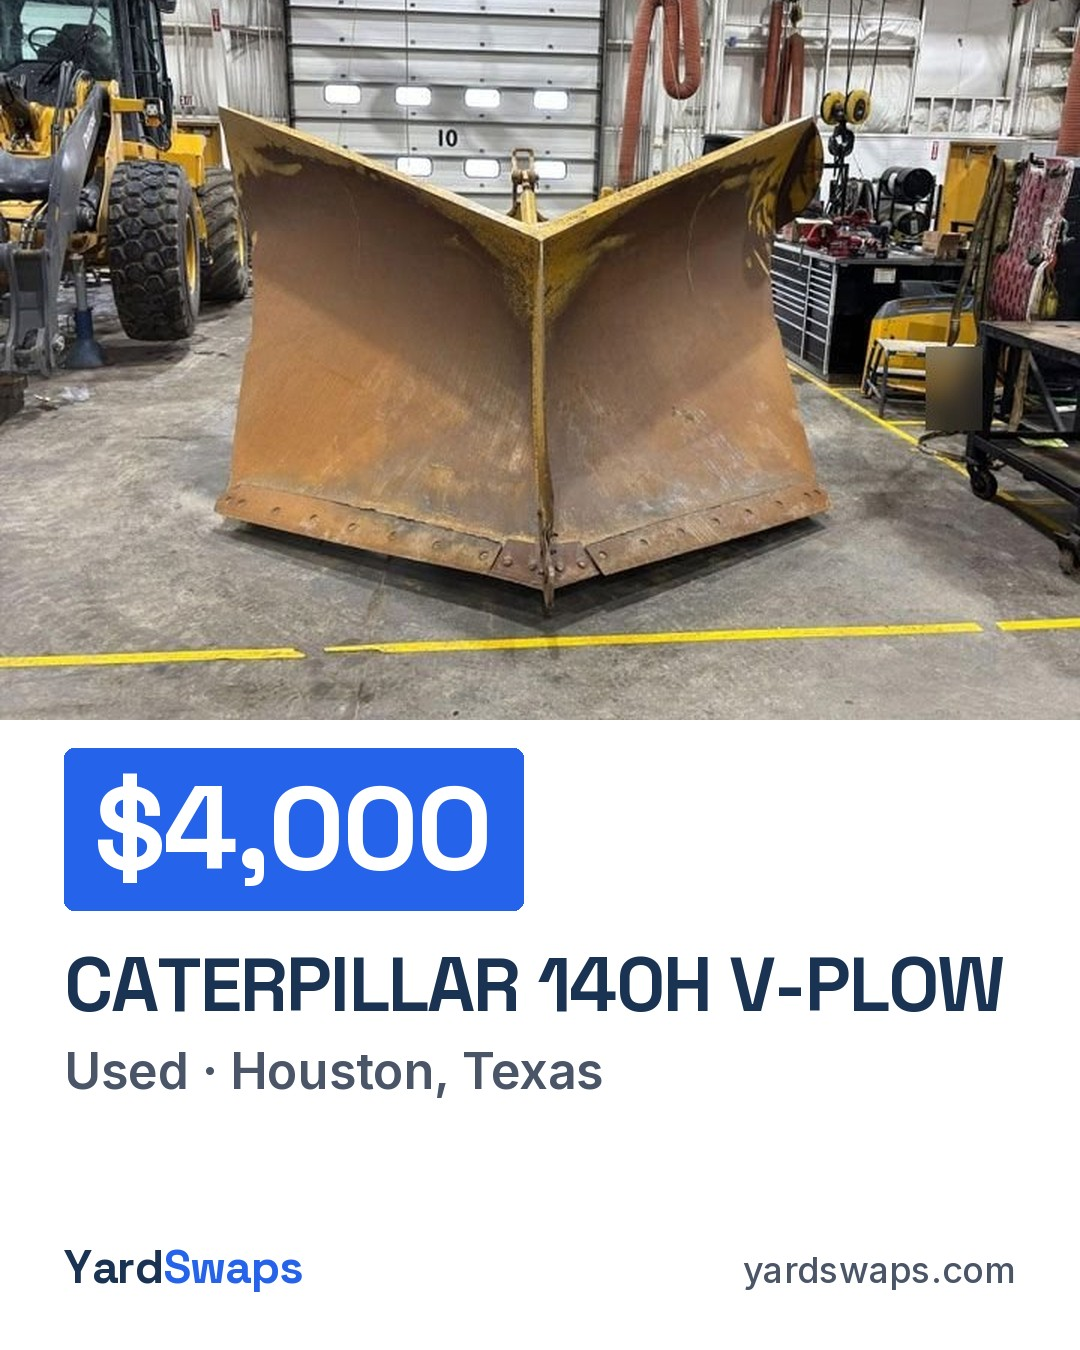
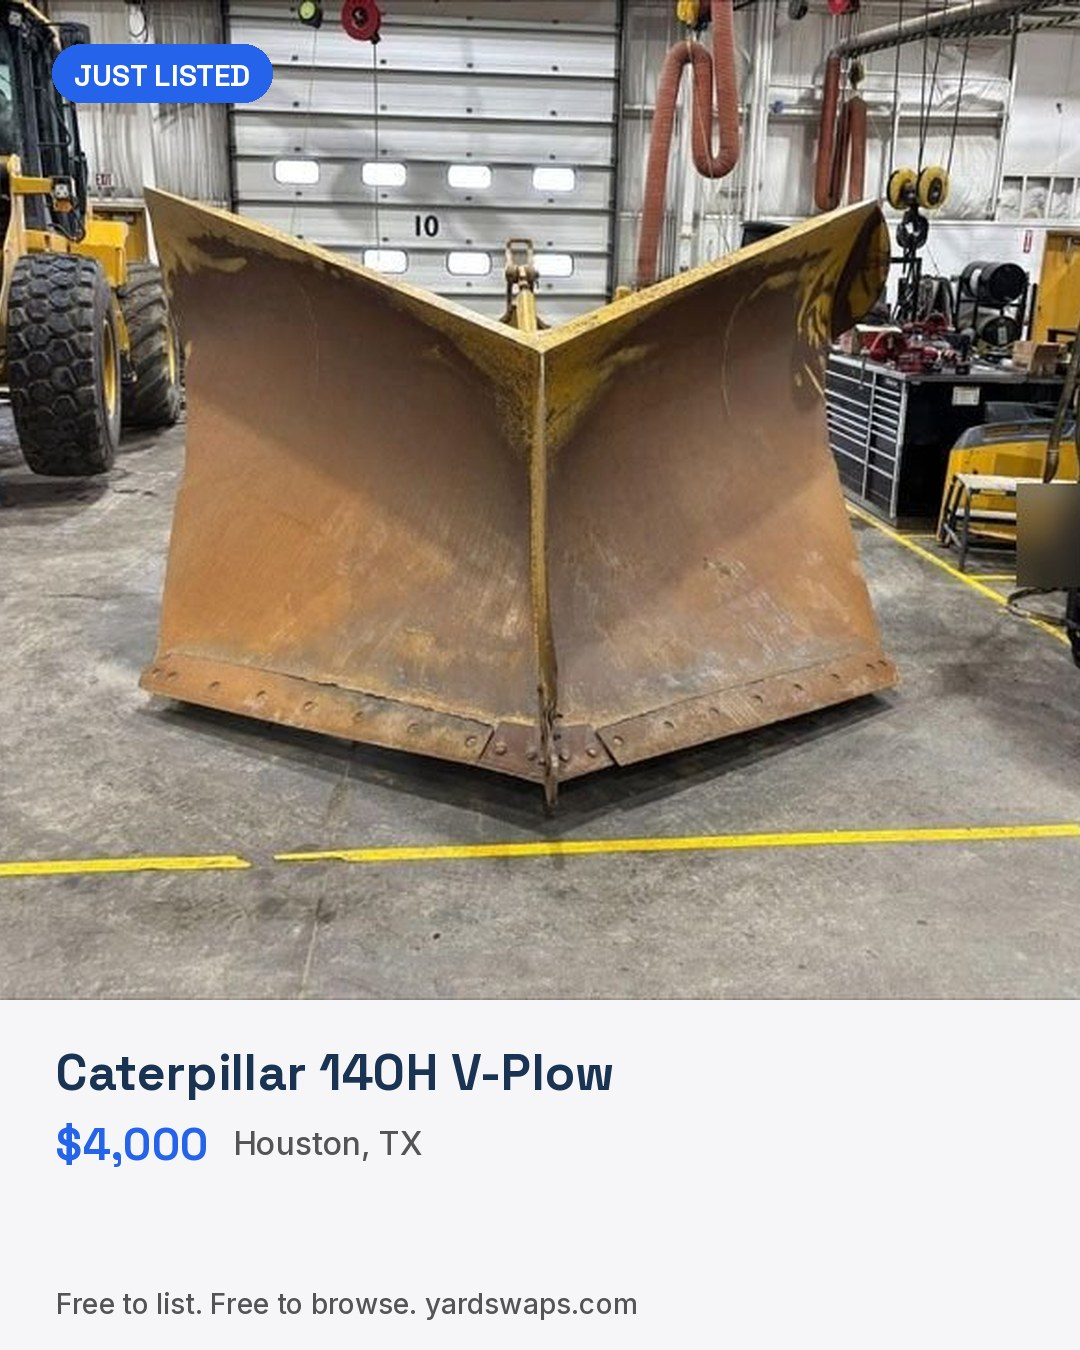
Still images: seller stills and the Just listed card in the earlier card look
Alan, 2026-11-26, of an earlier Just listed card: "These images are super nice", then next to the k2 seller stills: "This tractor looks different?".

- Seven seller stills rebuilt in that card's layout (brand/posts/make_seller_cards.py): one real photo on top with the blue label, slate headline, one blue line, footer. reels/images.json points the still of the day at them. The k2 versions stay in brand/posts/seller-feed/.
- listings/just_listed.py render_card is back to the card it drew before the k2 change, and the seven approved cards waiting in the queue are re-made from their saved, privacy-cleaned photos.

Claude-Session: https://claude.ai/code/session_01LSYGzeUgq9fnmqx8BJzKeC

diff --git a/brand/posts/make_seller_cards.py b/brand/posts/make_seller_cards.py
@@ -1,0 +1,94 @@
+#!/usr/bin/env python3
+"""Seller still images in the Just listed card look (Alan, 2026-11-26, of the earlier Just listed card:
+"These images are super nice"; then, next to the seven k2 seller stills: "This tractor looks different?").
+
+    python3 brand/posts/seller_photos.py <words from listing Reel slugs>   first: fetch the real photos
+    python3 brand/posts/make_seller_cards.py [slug ...]
+
+The card is the one listings/just_listed.py drew until 2026-11-26: the real photo across the top with only
+the blue label on it, then on the light panel a two-line headline in slate, one line in blue with the facts
+beside it in grey, and the footer line. Here the label, headline and blue line carry the seller message
+(free to list, no selling fee) instead of a price. One photo per card, the whole item in frame, no faces,
+plates or phone numbers; the footer names the item shown.
+
+Out: brand/posts/seller-cards/seller-card-<slug>.jpg (1080x1350).
+"""
+import sys, os, glob
+from PIL import Image, ImageDraw, ImageFont
+HERE = os.path.dirname(os.path.abspath(__file__))
+ROOT = os.path.dirname(os.path.dirname(HERE))
+FONTS = os.path.join(ROOT, "listings", "fonts")
+SRC = os.environ.get("SELLER_SRC", os.path.join(HERE, "seller-src"))
+OUT = os.path.join(HERE, "seller-cards")
+BG, SLATE, BLUE, GRAY = (246, 246, 248), (26, 51, 83), (37, 99, 235), (84, 84, 86)
+W, H, PH, PAD = 1080, 1350, 1000, 56
+LABEL = "LIST IT FREE ON YARDSWAPS"
+BLUE_LINE, FACTS = "Free to list", "No selling fee · Local pickup"
+
+
+def font(name, size, weight):
+    f = ImageFont.truetype(os.path.join(FONTS, name), size)
+    try:
+        f.set_variation_by_name(weight)
+    except Exception:
+        pass
+    return f
+
+
+def photo(frag, i=0):
+    f = glob.glob(os.path.join(SRC, f"*{frag}-{i}.jpg"))
+    assert len(f) == 1, (frag, i, f)
+    return Image.open(f[0]).convert("RGB")
+
+
+def card(ph, line1, line2, shown, anchor=(0.5, 0.5)):
+    """anchor: where the cover crop sits on the photo, (0..1 across, 0..1 down)."""
+    img = Image.new("RGB", (W, H), BG)
+    s = max(W / ph.width, PH / ph.height)
+    ph = ph.resize((int(ph.width * s + 0.5), int(ph.height * s + 0.5)), Image.LANCZOS)
+    left, top = int((ph.width - W) * anchor[0]), int((ph.height - PH) * anchor[1])
+    img.paste(ph.crop((left, top, left + W, top + PH)), (0, 0))
+    d = ImageDraw.Draw(img)
+    lf = font("SpaceGrotesk.ttf", 30, b"Bold")
+    tw = d.textlength(LABEL, font=lf)
+    d.rounded_rectangle((PAD - 4, 44, PAD + tw + 40, 44 + 58), radius=29, fill=BLUE)
+    d.text((PAD + 18, 44 + 12), LABEL, font=lf, fill=(255, 255, 255))
+    tf = font("SpaceGrotesk.ttf", 50, b"Bold")
+    y = PH + 40
+    for line in (line1, line2):
+        assert d.textlength(line, font=tf) <= W - 2 * PAD, line
+        d.text((PAD, y), line, font=tf, fill=SLATE)
+        y += 62
+    y += 14
+    pf = font("SpaceGrotesk.ttf", 44, b"Bold")
+    d.text((PAD, y), BLUE_LINE, font=pf, fill=BLUE)
+    rf = font("Inter.ttf", 32, b"Medium")
+    d.text((PAD + d.textlength(BLUE_LINE, font=pf) + 24, y + 8), FACTS, font=rf, fill=GRAY)
+    ff = font("Inter.ttf", 28, b"Medium")
+    foot = f"Shown: {shown}. yardswaps.com"
+    assert d.textlength(foot, font=ff) <= W - 2 * PAD, foot
+    d.text((PAD, H - 64), foot, font=ff, fill=GRAY)
+    return img
+
+
+# slug, (listing fragment, photo index), headline line 1, line 2, item shown, crop anchor
+L2 = "Snap a photo. AI writes the listing."
+CARDS = [
+    ("coffee-gear", ("q3nph", 0), "Coffee gear sitting idle?", L2, "La Spaziale S11 espresso machine", (0.5, 0.5)),
+    ("yard-gear", ("behok", 0), "Upgraded your mower?", L2, "Big Dog walk-behind mower", (0.5, 0.7)),
+    ("shop-tools", ("k5oda", 0), "Tools you don\u2019t use?", L2, "Mitutoyo micrometer set", (0.5, 0.5)),
+    ("hvac-units", ("uemvl", 0), "HVAC left from a job?", L2, "Goodman condenser", (0.5, 0.22)),
+    ("spare-engine", ("dsydq", 0), "Spare engine in the shop?", L2, "Komatsu HD785-7 engine", (0.5, 0.5)),
+    ("walk-in-cooler", ("q3khm", 0), "Cooler sitting empty?", L2, "Floral walk-in display cooler", (0.5, 0.5)),
+    ("kitchen-ovens", ("s8tqf", 0), "Replaced your oven?", L2, "TurboChef Eco oven", (0.5, 0.3)),
+]
+
+if __name__ == "__main__":
+    names = sys.argv[1:]
+    os.makedirs(OUT, exist_ok=True)
+    for slug, (frag, i), l1, l2, shown, anchor in CARDS:
+        if names and slug not in names:
+            continue
+        out = os.path.join(OUT, f"seller-card-{slug}.jpg")
+        card(photo(frag, i), l1, l2, shown, anchor).save(out, "JPEG", quality=88, optimize=True)
+        print(out)

diff --git a/listings/just_listed.py b/listings/just_listed.py
@@ -401,16 +401,49 @@ def facts_lines(l):
 
 
 def render_card(photo_bgr, l, out_path):
-    """The feed card in the post kit look (brand/posts/kit.py, k2): the real photo on top with nothing over it,
-    the price in the blue tag, the short title and the facts on white."""
+    """The feed card as it was before 2026-11-26 (Alan that day, of one of these: "These images are super
+    nice"; the k2 version with the price in the tag and the title in capitals ran for a few hours and was put
+    back): the real photo across the top with only the label on it, then on the light panel the seller's
+    title in slate, the price in blue with the facts beside it, and the footer line."""
     import cv2
-    from PIL import Image
-    sys.path.insert(0, os.path.join(ROOT, "brand", "posts"))
-    import kit
-    photo = Image.fromarray(cv2.cvtColor(photo_bgr, cv2.COLOR_BGR2RGB))
-    lines = facts_lines(l) + ["", ""]
-    img = kit.listing_post(photo, spec_title(l), price_text(l.get("price")), lines[0], facts2=lines[1])
-    img.save(out_path, "JPEG", quality=90, optimize=True)
+    from PIL import Image, ImageDraw
+    W, H, PH = 1080, 1350, 1000
+    img = Image.new("RGB", (W, H), BG)
+    rgb = cv2.cvtColor(photo_bgr, cv2.COLOR_BGR2RGB)
+    ph = Image.fromarray(rgb)
+    # Cover-crop the photo into the top 1080x1000.
+    s = max(W / ph.width, PH / ph.height)
+    ph = ph.resize((int(ph.width * s + 0.5), int(ph.height * s + 0.5)), Image.LANCZOS)
+    left, top = (ph.width - W) // 2, (ph.height - PH) // 2
+    img.paste(ph.crop((left, top, left + W, top + PH)), (0, 0))
+    d = ImageDraw.Draw(img)
+    pad = 56
+    label = "JUST LISTED" if is_new(l) else "FOR SALE ON YARDSWAPS"
+    lf = font("SpaceGrotesk.ttf", 30, b"Bold")
+    # Label pill on the photo, top-left.
+    tw = d.textlength(label, font=lf)
+    d.rounded_rectangle((pad - 4, 44, pad + tw + 40, 44 + 58), radius=29, fill=BLUE)
+    d.text((pad + 18, 44 + 12), label, font=lf, fill=(255, 255, 255))
+    tf = font("SpaceGrotesk.ttf", 50, b"Bold")
+    lines = wrap(d, nice_title(l["title"]), tf, W - 2 * pad, 2)
+    y = PH + 40
+    for line in lines:
+        d.text((pad, y), line, font=tf, fill=SLATE)
+        y += 62
+    y += 14
+    pf = font("SpaceGrotesk.ttf", 44, b"Bold")
+    pt = price_text(l.get("price"))
+    d.text((pad, y), pt, font=pf, fill=BLUE)
+    rest = " · ".join(facts(l).split(" · ")[1:])
+    if rest:
+        rf = font("Inter.ttf", 32, b"Medium")
+        x = pad + d.textlength(pt, font=pf) + 24
+        rest_lines = wrap(d, rest, rf, W - pad - x, 1)
+        d.text((x, y + 8), rest_lines[0], font=rf, fill=GRAY)
+    ff = font("Inter.ttf", 28, b"Medium")
+    foot = "Free to list. Free to browse. yardswaps.com"
+    d.text((pad, H - 64), foot, font=ff, fill=GRAY)
+    img.save(out_path, "JPEG", quality=88, optimize=True)
 
 
 # ---------- wanted cards ----------

diff --git a/listings/README.md b/listings/README.md
@@ -7,7 +7,7 @@ One live YardSwaps listing a day goes to Instagram (feed photo) and the Facebook
 1. **prep** (`.github/workflows/listings.yml`, 9:10 am Central). `just_listed.py` reads the public listings API, sorted newest first. Listings never featured go first, then the ones featured longest ago, with at most one card waiting per seller. It checks up to 4 photos per listing:
    - It skips any photo where OpenCV finds a face.
    - It blurs every word that tesseract reads with a digit in it, such as phone numbers, plates and street numbers.
-   - It renders a 1080x1350 card into `cards/<listing id>.jpg` in the post kit look (`brand/posts/README.md`, Nov 26): the real photo on top with nothing over it, then on white the price in the one blue tag, the short title, the facts and the wordmark (look k2, white and blue).
+   - It renders a 1080x1350 card into `cards/<listing id>.jpg` in the card look it had before Nov 26: the real photo across the top with only the blue label on it (JUST LISTED or FOR SALE ON YARDSWAPS), then on the light panel the seller's title in slate, the price in blue with the facts beside it, and the line "Free to list. Free to browse. yardswaps.com". The k2 version (price in the tag, title in capitals) ran for a few hours on Nov 26 and was put back the same day: Alan, of one of the earlier cards, "These images are super nice".
    - It queues the card in `queue.json` as `pending`.
    - It keeps up to 3 cards waiting.
 2. **review** (a Claude scheduled task, about 11:30 am Central). The task looks at every `pending` card and sets `approved`, or `rejected` with a `reason`. See "Review rules" below.

diff --git a/brand/posts/README.md b/brand/posts/README.md
@@ -43,7 +43,8 @@ The review page with every frame, before and after: https://claude.ai/artifact/6
 | Post | Made by | Function |
 |---|---|---|
 | Listing Reel (every shot before the end card) | `listings/listing_reels.py` | `reel_shots` |
-| Daily "Just listed" card | `listings/just_listed.py` `render_card` | `listing_post` |
+| Daily "Just listed" card | `listings/just_listed.py` `render_card` | not on the kit: its own earlier card look, kept on purpose (Alan 2026-11-26: "These images are super nice") |
+| Seller still of the day (feed 4:5) | `brand/posts/make_seller_cards.py` | not on the kit: the Just listed card look with the seller message |
 | "Buyers are looking for" card | `listings/just_listed.py` `render_wanted_card` | `text_post` |
 | Tip posts (feed 4:5 and 9:16) | `brand/posts/make_tips.py` from `tips.json` | `tip_post` |
 | Daily Story | `stories/render_story.js` | `story`, drawn again in HTML because the Story job checks out only `stories/` |

diff --git a/reels/README.md b/reels/README.md
@@ -104,6 +104,11 @@ schedule when a seller Story is listed for the date, and otherwise takes the sti
 inside `IMAGE_GAP_DAYS`, 7). It is logged in `reels/posted.json` as platform `instagram_image` /
 `facebook_image`, because the posting job commits only that file; the Reel rules ignore those rows except that
 the 90-minute HeyCatch spacing reads them as ours. `reels.yml` with `image_slug` still posts any one image by hand.
+Since the evening of 2026-11-26 the seven feed images are the cards from `brand/posts/make_seller_cards.py`: the
+Just listed card's layout (photo on top, blue label, slate headline, one blue line, footer) with the seller
+message, after Alan put the earlier Just listed card next to the k2 stills ("These images are super nice", "This
+tractor looks different?"). The k2 versions stay in `brand/posts/seller-feed/`; the linked Stories still use the
+k2 pictures in `stories/linked/`.
 
 ## Walkthrough of the day (Alan, 2026-11-26)
 
